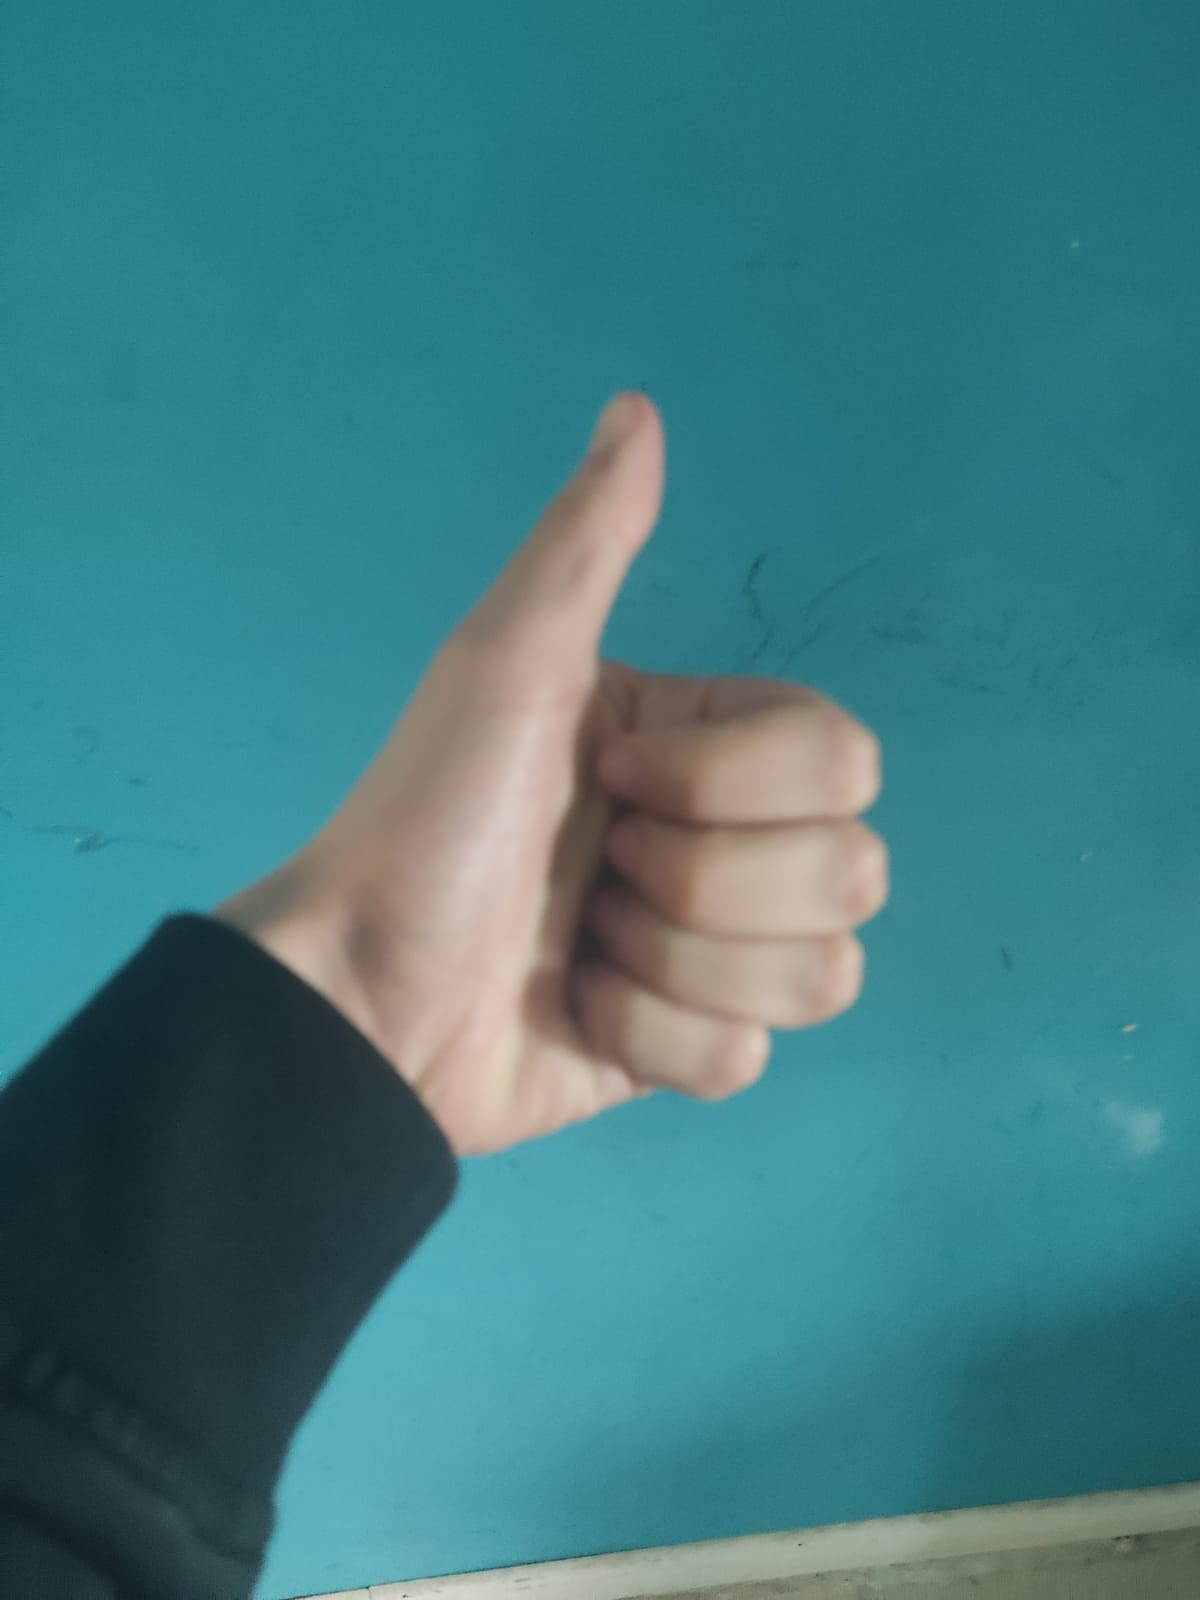
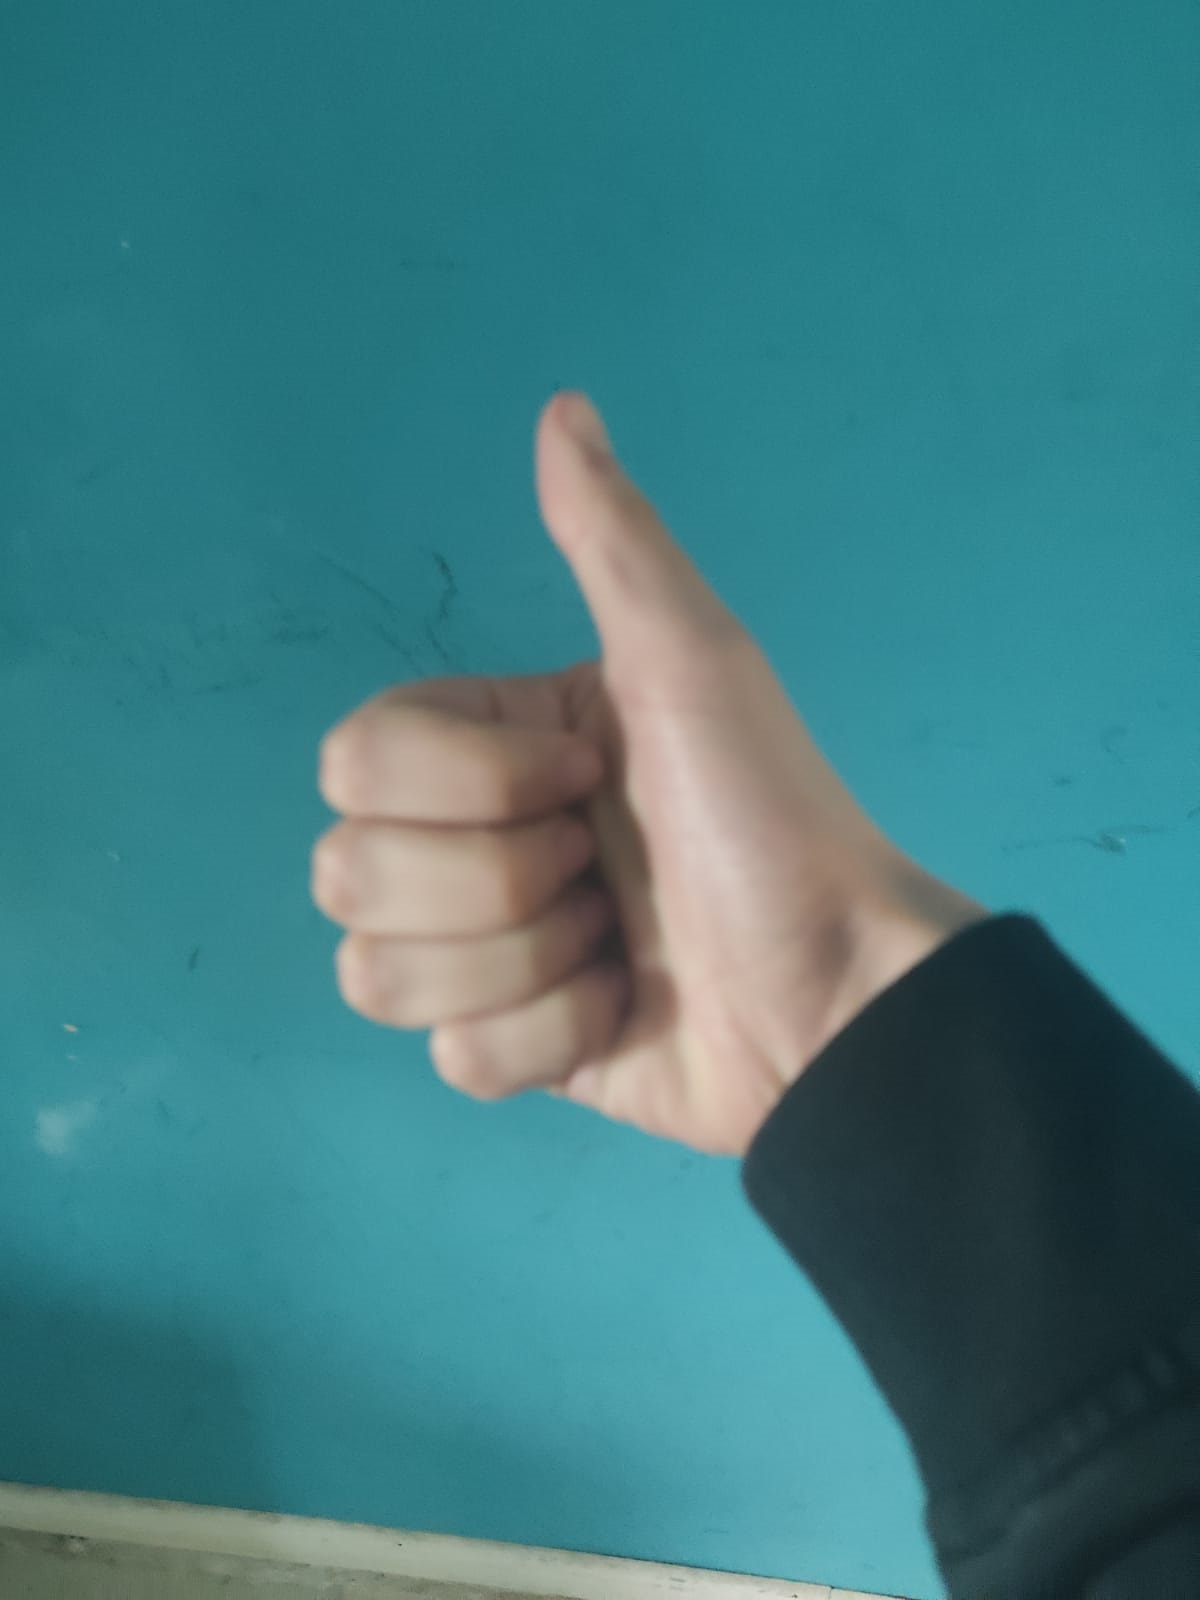
ultima revision

diff --git a/Dmanos.py b/Dmanos.py
@@ -437,7 +437,7 @@ class detector():
         self.cap.release()
         with self.mp_hands.Hands(static_image_mode = True, max_num_hands=1 ) as hands:
     
-            self.image = cv2.imread("mano_nea.jpeg")
+            self.image = cv2.imread("mano_like.jpeg")
             self.image = imutils.resize(self.image, width= 480)
             self.image = cv2.flip(self.image, 1)
             
